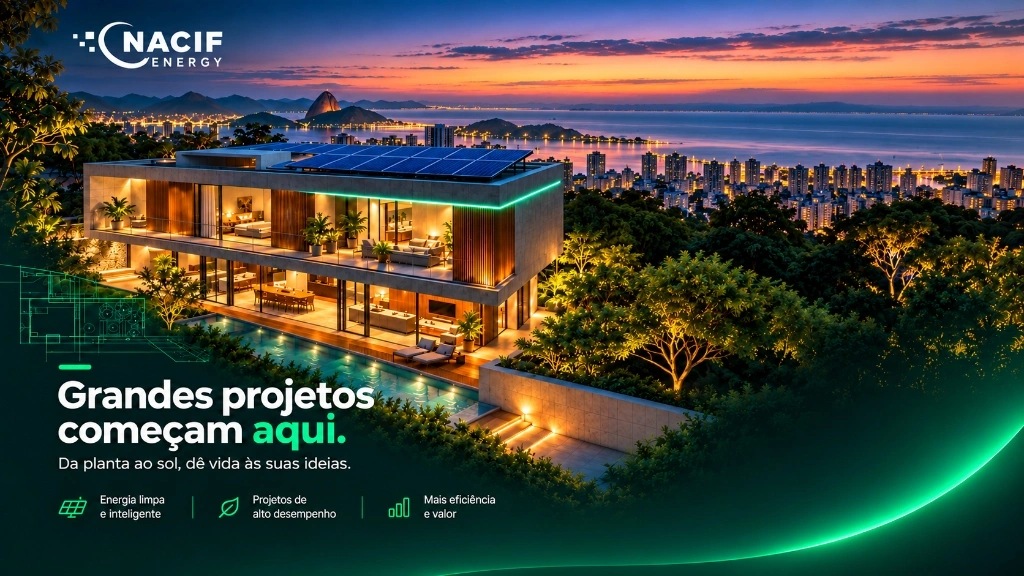
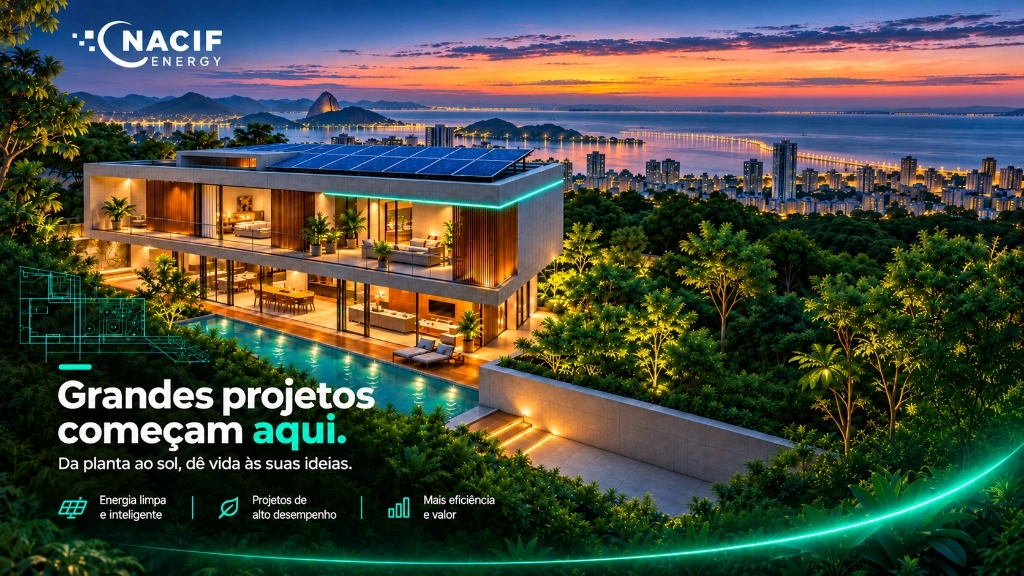
style(login): aplica cor primaria #00d8b8 e ajusta enquadramento da nova imagem de fundo

diff --git a/src/pages/Login.jsx b/src/pages/Login.jsx
@@ -102,14 +102,15 @@ export default function Login() {
   };
 
   return (
-    <div className="relative min-h-[100dvh] w-full overflow-x-hidden bg-[#031923] font-sans text-[#101828] antialiased selection:bg-[#00D98A]/25 selection:text-[#031923]">
+    <div className="relative min-h-[100dvh] w-full overflow-x-hidden bg-[#031923] font-sans text-[#101828] antialiased selection:bg-[#00d8b8]/25 selection:text-[#031923]">
       {/* Imagem arquitetônica oficial fullscreen sem distorção ou blur:
-          - Desktop >= 1280px: centralizada preservando toda a composição 16:9
-          - Notebook 1024-1279px: ancorada à esquerda para preservar logo e chamada sem cortes
-          - Tablet / Mobile < 1024px: ancorada à direita sobre arquitetura/pôr do sol evitando texto cortado */}
+          - 2xl >= 1536px: centralizada preservando toda a composição 16:9 (1672x941+)
+          - xl 1280-1535px: enquadramento 12% para não cortar logotipo e diferenciais à esquerda
+          - lg 1024-1279px: enquadramento à esquerda mantendo texto/casa livres ao lado do card
+          - < 1024px: ancorada à direita sobre pôr do sol e paisagem evitando recortes de texto */}
       <div
         aria-hidden="true"
-        className="pointer-events-none absolute inset-0 min-h-full bg-cover bg-no-repeat bg-right lg:bg-left xl:bg-center"
+        className="pointer-events-none absolute inset-0 min-h-full bg-cover bg-no-repeat bg-right lg:bg-[position:4%_center] xl:bg-[position:12%_center] 2xl:bg-center"
         style={{ backgroundImage: `url(${loginBackground})` }}
       />
 
@@ -120,17 +121,17 @@ export default function Login() {
         mais eficiência e valor.
       </div>
 
-      {/* Área principal posicionando o card flutuante à direita no desktop e centralizado em telas menores */}
-      <main className="relative z-10 flex min-h-[100dvh] w-full items-center justify-center px-4 py-6 sm:px-8 sm:py-10 lg:justify-end lg:px-10 lg:py-10 xl:pr-[92px] 2xl:pr-[128px]">
+      {/* Área principal com o card flutuante à direita no desktop e centralizado em telas menores */}
+      <main className="relative z-10 flex min-h-[100dvh] w-full items-center justify-center px-4 py-6 sm:px-8 sm:py-10 lg:justify-end lg:px-8 lg:py-10 xl:pr-[84px] 2xl:pr-[126px]">
         <section
           aria-labelledby="login-heading"
-          className="flex w-full max-w-[440px] flex-col justify-between rounded-[28px] bg-white p-6 shadow-[0_24px_64px_rgba(3,25,35,0.28)] sm:max-w-[480px] sm:rounded-[32px] sm:p-9 lg:w-[465px] lg:max-w-[465px] xl:w-[505px] xl:max-w-[505px] xl:rounded-[34px] xl:p-10 2xl:min-h-[700px] 2xl:w-[530px] 2xl:max-w-[530px] 2xl:rounded-[36px] 2xl:px-11 2xl:py-10"
+          className="flex w-full max-w-[440px] flex-col justify-between rounded-[28px] bg-white p-6 shadow-[0_24px_64px_rgba(3,25,35,0.24)] ring-1 ring-black/[0.06] sm:max-w-[480px] sm:rounded-[32px] sm:p-9 lg:w-[445px] lg:max-w-[445px] lg:p-8 xl:w-[495px] xl:max-w-[495px] xl:rounded-[34px] xl:p-10 2xl:min-h-[700px] 2xl:w-[530px] 2xl:max-w-[530px] 2xl:rounded-[36px] 2xl:px-11 2xl:py-10"
         >
           <div>
-            {/* Badge verde-claro */}
+            {/* Badge #00d8b8 */}
             <div className="flex justify-start">
-              <span className="inline-flex items-center justify-center gap-2 rounded-full bg-[#DDF9EC] px-3.5 py-1.5 text-xs font-bold text-[#006B50]">
-                <Lock className="h-3.5 w-3.5 shrink-0 text-[#006B50]" aria-hidden="true" />
+              <span className="inline-flex items-center justify-center gap-2 rounded-full bg-[#00d8b8]/15 px-3.5 py-1.5 text-xs font-bold text-[#008773]">
+                <Lock className="h-3.5 w-3.5 shrink-0 text-[#00B89C]" aria-hidden="true" />
                 <span>Acesso seguro aos seus projetos</span>
               </span>
             </div>
@@ -194,7 +195,7 @@ export default function Login() {
                     className={`h-12 rounded-xl border bg-white pl-11 pr-4 text-sm font-medium text-[#101828] placeholder:text-[#94A3B8] shadow-none transition-colors focus-visible:ring-2 ${
                       fieldErrors.email
                         ? "border-red-400 focus-visible:border-red-500 focus-visible:ring-red-200"
-                        : "border-[#DCE4EC] focus-visible:border-[#006B50] focus-visible:ring-[#00D98A]/25"
+                        : "border-[#DCE4EC] focus-visible:border-[#00d8b8] focus-visible:ring-[#00d8b8]/25"
                     }`}
                     required
                   />
@@ -217,7 +218,7 @@ export default function Login() {
                   </Label>
                   <Link
                     to="/forgot-password"
-                    className="text-[13px] font-bold text-[#006B50] transition-colors hover:text-[#004D39] hover:underline focus-visible:outline-none focus-visible:ring-2 focus-visible:ring-[#006B50] rounded"
+                    className="rounded text-[13px] font-bold text-[#009E86] transition-colors hover:text-[#007D6A] hover:underline focus-visible:outline-none focus-visible:ring-2 focus-visible:ring-[#00d8b8]"
                   >
                     Esqueceu a senha?
                   </Link>
@@ -246,7 +247,7 @@ export default function Login() {
                     className={`h-12 rounded-xl border bg-white pl-11 pr-11 text-sm font-medium text-[#101828] placeholder:text-[#94A3B8] shadow-none transition-colors focus-visible:ring-2 ${
                       fieldErrors.password
                         ? "border-red-400 focus-visible:border-red-500 focus-visible:ring-red-200"
-                        : "border-[#DCE4EC] focus-visible:border-[#006B50] focus-visible:ring-[#00D98A]/25"
+                        : "border-[#DCE4EC] focus-visible:border-[#00d8b8] focus-visible:ring-[#00d8b8]/25"
                     }`}
                     required
                   />
@@ -256,7 +257,7 @@ export default function Login() {
                     aria-label={showPassword ? "Ocultar senha" : "Mostrar senha"}
                     aria-pressed={showPassword}
                     onClick={() => setShowPassword((visible) => !visible)}
-                    className="absolute right-3 top-1/2 flex h-8 w-8 -translate-y-1/2 items-center justify-center rounded-lg text-[#64748B] transition-colors hover:bg-[#F1F5F9] hover:text-[#101828] focus-visible:outline-none focus-visible:ring-2 focus-visible:ring-[#006B50]"
+                    className="absolute right-3 top-1/2 flex h-8 w-8 -translate-y-1/2 items-center justify-center rounded-lg text-[#64748B] transition-colors hover:bg-[#F1F5F9] hover:text-[#101828] focus-visible:outline-none focus-visible:ring-2 focus-visible:ring-[#00d8b8]"
                   >
                     {showPassword ? (
                       <EyeOff className="h-[18px] w-[18px]" aria-hidden="true" />
@@ -278,7 +279,7 @@ export default function Login() {
                   id="remember"
                   checked={rememberMe}
                   onCheckedChange={(checked) => setRememberMe(checked === true)}
-                  className="h-4 w-4 rounded-[4px] border-[#CBD5E1] data-[state=checked]:border-[#006B50] data-[state=checked]:bg-[#006B50] data-[state=checked]:text-white"
+                  className="h-4 w-4 rounded-[4px] border-[#CBD5E1] data-[state=checked]:border-[#00d8b8] data-[state=checked]:bg-[#00d8b8] data-[state=checked]:text-[#031923]"
                 />
                 <label
                   htmlFor="remember"
@@ -288,12 +289,12 @@ export default function Login() {
                 </label>
               </div>
 
-              {/* Botão Principal Entrar (sólido, sem gradiente) */}
+              {/* Botão Principal Entrar com cor primária oficial #00d8b8 (sólido, sem gradiente) */}
               <div className="pt-1.5">
                 <Button
                   type="submit"
                   disabled={loading}
-                  className="h-[54px] w-full rounded-[12px] border-0 bg-[#007A55] px-5 text-[15px] font-bold text-white shadow-[0_8px_20px_rgba(0,107,80,0.22)] transition-colors hover:bg-[#006B50] active:bg-[#005842] focus-visible:ring-2 focus-visible:ring-[#00D98A] focus-visible:ring-offset-2 disabled:cursor-not-allowed disabled:opacity-65 sm:h-[56px]"
+                  className="h-[54px] w-full rounded-[12px] border-0 bg-[#00d8b8] px-5 text-[15px] font-extrabold text-[#031923] shadow-[0_8px_20px_rgba(0,216,184,0.28)] transition-colors hover:bg-[#00c4a7] active:bg-[#00b095] focus-visible:ring-2 focus-visible:ring-[#00d8b8] focus-visible:ring-offset-2 disabled:cursor-not-allowed disabled:opacity-65 sm:h-[56px]"
                 >
                   {loading ? (
                     <span className="inline-flex items-center justify-center gap-2">
@@ -320,7 +321,7 @@ export default function Login() {
             <Button
               asChild
               variant="outline"
-              className="h-[52px] w-full rounded-[12px] border-[#DCE4EC] bg-white text-[15px] font-bold text-[#081827] shadow-none transition-colors hover:border-[#CBD5E1] hover:bg-[#F8FAFC] hover:text-[#081827] sm:h-[54px]"
+              className="h-[52px] w-full rounded-[12px] border-[#DCE4EC] bg-white text-[15px] font-bold text-[#081827] shadow-none transition-colors hover:border-[#00d8b8]/60 hover:bg-[#00d8b8]/5 hover:text-[#081827] sm:h-[54px]"
             >
               <Link to="/register" className="inline-flex items-center justify-center gap-2">
                 <UserPlus className="h-[18px] w-[18px] text-[#081827]" aria-hidden="true" />
